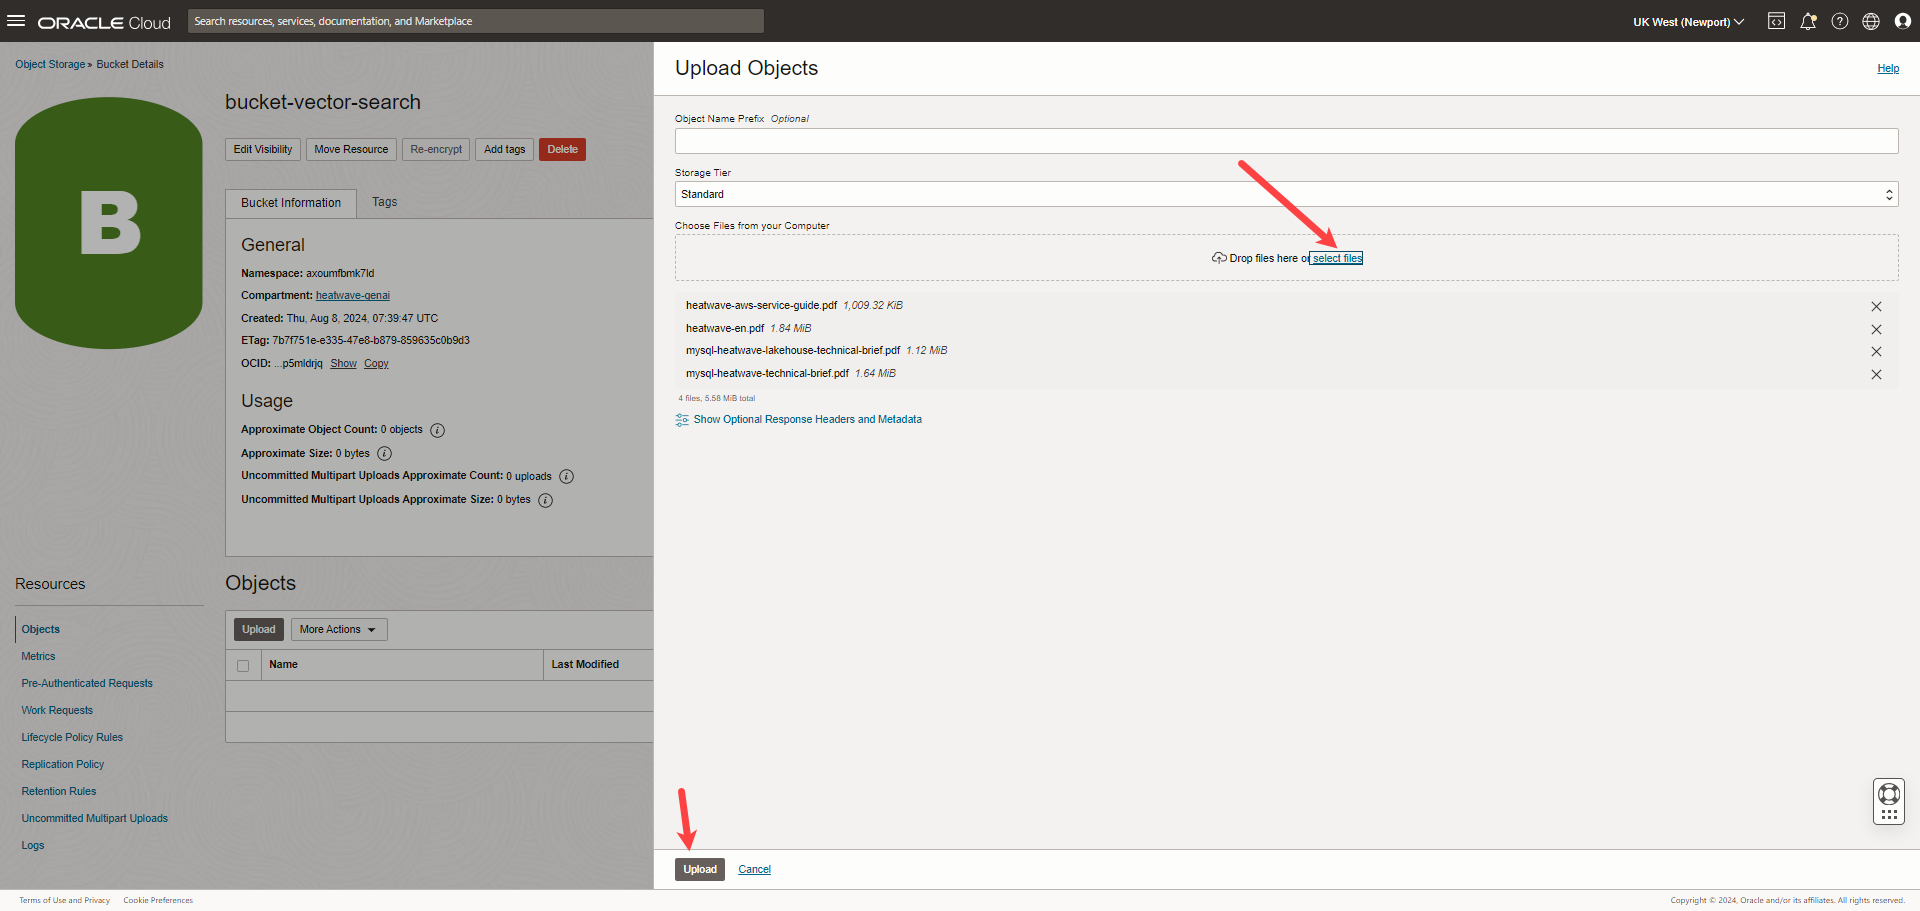
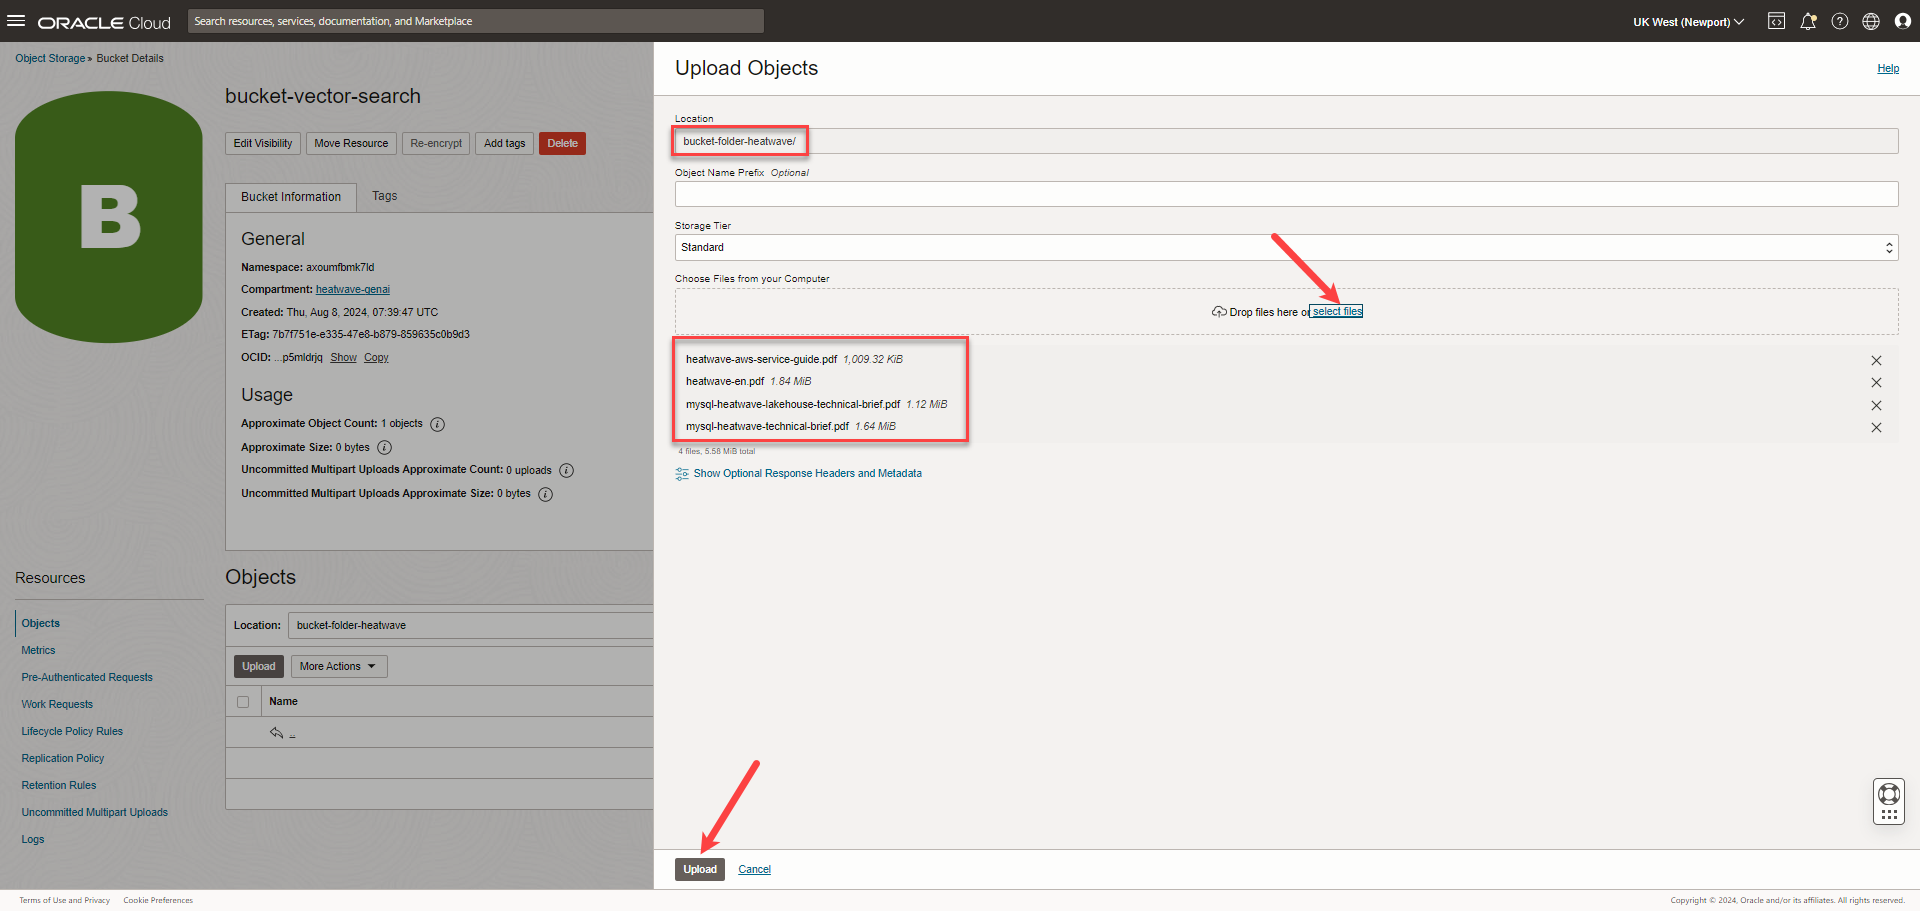
WMS ID: 11730: Updated all labs

diff --git a/vector-search/vector-search.md b/vector-search/vector-search.md
@@ -10,9 +10,11 @@ _Estimated Time:_ 10 minutes
 
 In this lab, you will be guided through the following task:
 
-- Create a bucket.
-- Upload files to the bucket.
-- Create a Pre-Authenticated Request.
+- Create a bucket and a folder.
+- Upload files to the bucket folder.
+- Copy the OCID of your compartment.
+- Create a dynamic group.
+- Write policies for the dynamic group.
 - Set up a vector store.
 - Perform a vector search.
 
@@ -20,7 +22,7 @@ In this lab, you will be guided through the following task:
 
 - Must complete Lab 4.
 
-## Task 1: Create a bucket
+## Task 1: Create a bucket and a folder
 
 The Object Storage service provides reliable, secure, and scalable object storage. Object Storage uses buckets to organize your files. 
 
@@ -36,19 +38,35 @@ The Object Storage service provides reliable, secure, and scalable object storag
 
     ![Enter bucket details](./images/3-enter-bucket-details.png "Enter bucket details")
 
-4. A bucket is created.
+4. Once the bucket is created, click the name of the bucket to open the **Bucket Details** page. 
 
     ![Created bucket](./images/4-created-bucket.png "Created bucket")
 
-## Task 2: Upload files to the bucket
+5. Copy the bucket name and **Namespace**, and paste the it somewhere in durable storage for future reference.
 
-1.  In the **Object Storage & Archive Storage** page, click the bucket name to view its details.
+    ![Bucket namespace](./images/35-bucket-namespace.png "Bucket namespace")
+
+6. Under **Objects**, click **More Action**, and then click **Create New Folder**.
+
+    ![Create new folder](./images/31-create-new-folder.png "Create new folder")
+
+7. In the **Create New Folder** page, enter a **Name** of the folder, and note it for future reference.
+
+    ![Enter new folder details](./images/32-enter-folder-details.png "Enter new folder details")
+
+## Task 2: Upload files to the bucket folder
+
+1.  In the **Object Storage & Archive Storage** page, click the bucket name.
 
     ![View bucket details](./images/5-view-bucket-details.png "View bucket details")
 
-2. Under **Objects**, click **Upload**.
+2.  Under **Objects**, click the bucket folder name.
 
-    ![Click upload](./images/5-view-bucket-details.png "Click upload")
+    ![Click bucket folder](./images/33-click-bucket-folder.png "Click bucket folder")
+
+2.  Click **Upload**.
+
+    ![Click upload](./images/34-click-upload.png "Click upload")
 
 3. Click **select files** to display a file selection dialog box, and select the files you want to perform a vector search on, and click **Upload**.
 
@@ -58,7 +76,90 @@ The Object Storage service provides reliable, secure, and scalable object storag
 
     ![Upload files finished](./images/7-upload-files-finished.png "Upload files finished")
 
-## Task 3: Create a Pre-Authenticated Request
+## Task 3: Copy the OCID of your compartment
+
+1. Open the **Navigation menu**, click **Identity & Security**, and under **Identity**, click **Compartments**.
+
+    ![Click Domain](./images/23-click-compartment.png "Click Domain")
+
+2. In the **Compartments** page, hover over the OCID of your compartment, click **Copy**, and paste the OCID somewhere in durable storage for future reference.
+
+    ![Copy compartment OCID](./images/24-copy-comparment-ocid.png "Copy compartment OCID")
+
+## Task 4: Create a dynamic group
+
+Dynamic groups allow you to group Oracle Cloud Infrastructure resources as principal. You can then create policies to permit the dynamic groups to access Oracle Cloud Infrastructure services.  
+
+1. Open the **Navigation menu**, click **Identity & Security**, and under **Identity**, click **Domains**.
+
+    ![Click Domain](./images/19-click-domain.png "Click Domain")
+
+2. Click the name of the current domain. 
+
+    ![Current Domain](./images/20-current-domain.png "Click Domain")
+
+3. Under **Identity domain**, click **Dynamic groups**.
+
+    ![Click dynamic group](./images/21-click-dynamic-group "Click group")
+
+4. Click **Create dynamic group**.
+
+    ![Create dynamic group](./images/22-create-dynamic-group.png "Create dynamic group")
+
+5. In the **Create dynamic group** page, enter a **Name** and a **Description** for the dynamic group. *Note* the name of the dynamic group.
+
+6. Click **Rule builder**.
+
+    ![Click Rule Builder](./images/25-enter-dynamic-group-details.png "Click Rule Builder")
+
+7. In the **Create matching rule** page, select **Compartment OCID** in **Match instances with** field, and paste the OCID of the compartment that you had copied in Task 3.
+
+8. Click **Add Rule**.
+
+    ![Enter compartment details](./images/26-enter-ocid.png "Enter compartment details")
+
+9. In the **Create dynamic group** page, click **Create**.
+
+    ![Create dynamic group](./images/27-click-create-dynamic-group.png "Create dynamic group")
+
+## Task 5: Write policies for the dynamic group
+
+To access Object Storage from HeatWave, you must define a policy that enables the dynamic group to access to buckets and its folders.
+
+ 1. Open the **Navigation menu**, click **Identity & Security**, and under **Identity**, click **Policies**.
+
+    ![Click policy](./images/28-click-policies.png "Click policy")
+
+ 2. Click **Create Policy**.
+
+   ![Create dynamic group](./images/29-create-policies.png "Create dynamic group")
+
+3. In **Create policy** page, enter the **Name**, and **Description** of the policy.
+
+4. Ensure that the Compartment is **heatwave-genai**.
+
+5. Toggle the **Show manual editor** button, and paste the following policy.
+
+   ```bash
+    <copy>Allow dynamic-group <DynamicGroupName> to read buckets in compartment <CompartmentName></copy>
+	<copy>Allow dynamic-group <DynamicGroupName> to read objects in compartment <CompartmentName></copy>
+    ```
+
+    Replace DynamicGroupName with the name of the dynamic group and CompartmentName with the name of the compartment.
+
+    For example:
+     
+     ```bash
+    <copy>Allow dynamic-group heatwavegenai-dynamic-group to read buckets in compartment heatwave-genai</copy>
+    <copy>Allow dynamic-group heatwavegenai-dynamic-group to read objects in compartment heatwave-genai</copy>
+    ```
+
+  6. Click **Create**.
+
+    ![Enter policy details](./images/30-enter-policy-details.png "Enter policy details")
+
+
+<!-- /*## Task 3: Create a Pre-Authenticated Request
 
 Pre-authenticated requests provide a way to let you access a bucket or an object without having your own credentials.
 
@@ -78,10 +179,10 @@ Pre-authenticated requests provide a way to let you access a bucket or an object
 
 3. Copy the URL that appears in the **Pre-Authenticated Request Details** dialog box, paste the URL somewhere in durable storage for future reference, and click **Close**.
 
-    ![Copy Pre-Authenticated Request details](./images/10-copy-par.png "Copy Pre-Authenticated Request details")
+    ![Copy Pre-Authenticated Request details](./images/10-copy-par.png "Copy Pre-Authenticated Request details")*/ -->
 
 
-## Task 4: Set up a vector store
+## Task 6: Set up a vector store
 
 1. Create a new schema and select it. You can also select any existing schema.
 
@@ -135,7 +236,7 @@ Pre-authenticated requests provide a way to let you access a bucket or an object
 
     ![Vector embeddings](./images/15-check-count.png "Vector embeddings")
 
-## Task 5: Perform a vector search
+## Task 7: Perform a vector search
 
 HeatWave retrieves content from the vector store and provide that as context to the LLM. This process is called as retrieval-augmented generation or RAG. This helps the LLM to produce more relevant and accurate results for your queries.
 
